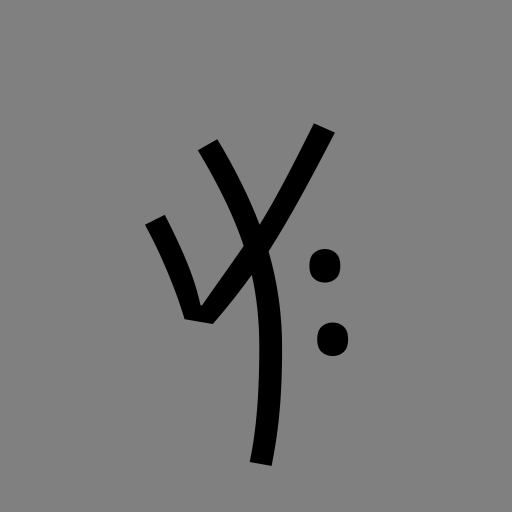
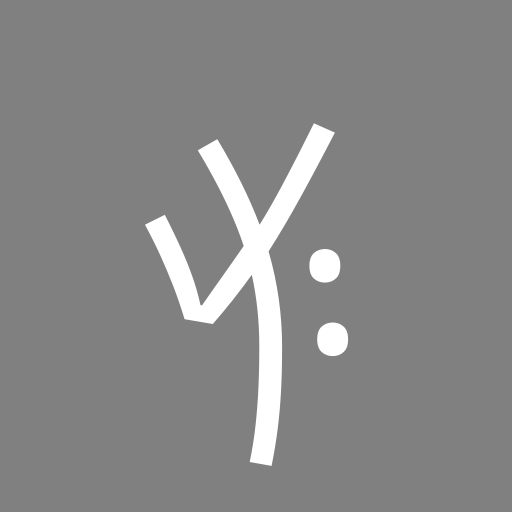
dev

Changed region(s): [[0.2812, 0.2188, 0.6562, 0.9062], [0.5938, 0.4688, 0.6875, 0.5625], [0.5938, 0.625, 0.6875, 0.7188]]

diff --git a/src/utils.py b/src/utils.py
@@ -90,3 +90,80 @@ class Controller:
                     f"[Controller] Reversal #{self.reversal_count}: "
                     f"{old} → {self.current_correct}"
                 )
+
+
+import os
+from PIL import Image, ImageDraw, ImageFont
+# Stroke count to Unicode range mapping (inclusive)
+stroke_to_unicode_range = {
+    1:  (0x1B170, 0x1B170),
+    2:  (0x1B171, 0x1B177),
+    3:  (0x1B178, 0x1B18A),
+    4:  (0x1B18B, 0x1B1A7),
+    5:  (0x1B1A8, 0x1B1D5),
+    6:  (0x1B1DE, 0x1B215),
+    7:  (0x1B216, 0x1B243),
+    8:  (0x1B244, 0x1B283),
+    9:  (0x1B284, 0x1B2AF),
+    10: (0x1B2B0, 0x1B2D5),
+    11: (0x1B2CE, 0x1B2E0),
+    12: (0x1B2E1, 0x1B2ED),
+    13: (0x1B2EE, 0x1B2F3),
+    14: (0x1B2F4, 0x1B2F6),
+    15: (0x1B2F7, 0x1B2F9),
+}
+
+def generate_nushu_symbols(
+font_path,
+output_dir,
+stroke,
+stroke_range_dict,
+bg_color="gray",
+fill_color="white",
+img_size=100,
+font_size=72
+):
+    """
+    Generate Nüshu symbol images for a specific stroke count.
+
+    Args:
+        font_path (str): Path to the NotoSansNushu-Regular.ttf file.
+        output_dir (str): Directory to save the generated images.
+        stroke (int): Stroke count (1–15).
+        stroke_range_dict (dict): Dict mapping stroke count → (start, end) Unicode range.
+        bg_color (str or tuple): Background color (e.g., "white" or (255,255,255)).
+        img_size (int): Width and height of the image in pixels.
+        font_size (int): Size of the character font.
+    """
+    if stroke not in stroke_range_dict:
+        raise ValueError(f"Stroke count {stroke} not valid. Choose from: {list(stroke_range_dict.keys())}")
+
+    os.makedirs(output_dir, exist_ok=True)
+    font = ImageFont.truetype(font_path, font_size)
+    
+    start, end = stroke_range_dict[stroke]
+    for i, code in enumerate(range(start, end + 1)):
+        char = chr(code)
+        img = Image.new("RGB", (img_size, img_size), bg_color)
+        draw = ImageDraw.Draw(img)
+
+        # Center character on image
+        # Center character on image using textbbox
+        bbox = draw.textbbox((0, 0), char, font=font)
+        w, h = bbox[2] - bbox[0], bbox[3] - bbox[1]
+        x = (img_size - w) // 2
+        y = (img_size - h) // 2
+        draw.text((x, y), char, font=font, fill=fill_color)
+
+        filename = f"nushu_stroke{stroke}_{i:03d}_U{code:04X}.png"
+        img.save(os.path.join(output_dir, filename))
+
+# generate_nushu_symbols(
+#     font_path="E:/xhmhc/TaskBeacon/PRL/assets/NotoSansNushu-Regular.ttf",
+#     output_dir="E:/xhmhc/TaskBeacon/PRL/assets",
+#     stroke=5,
+#     stroke_range_dict=stroke_to_unicode_range,
+#     bg_color="gray",
+#     img_size=512,
+#     font_size=300
+# )
